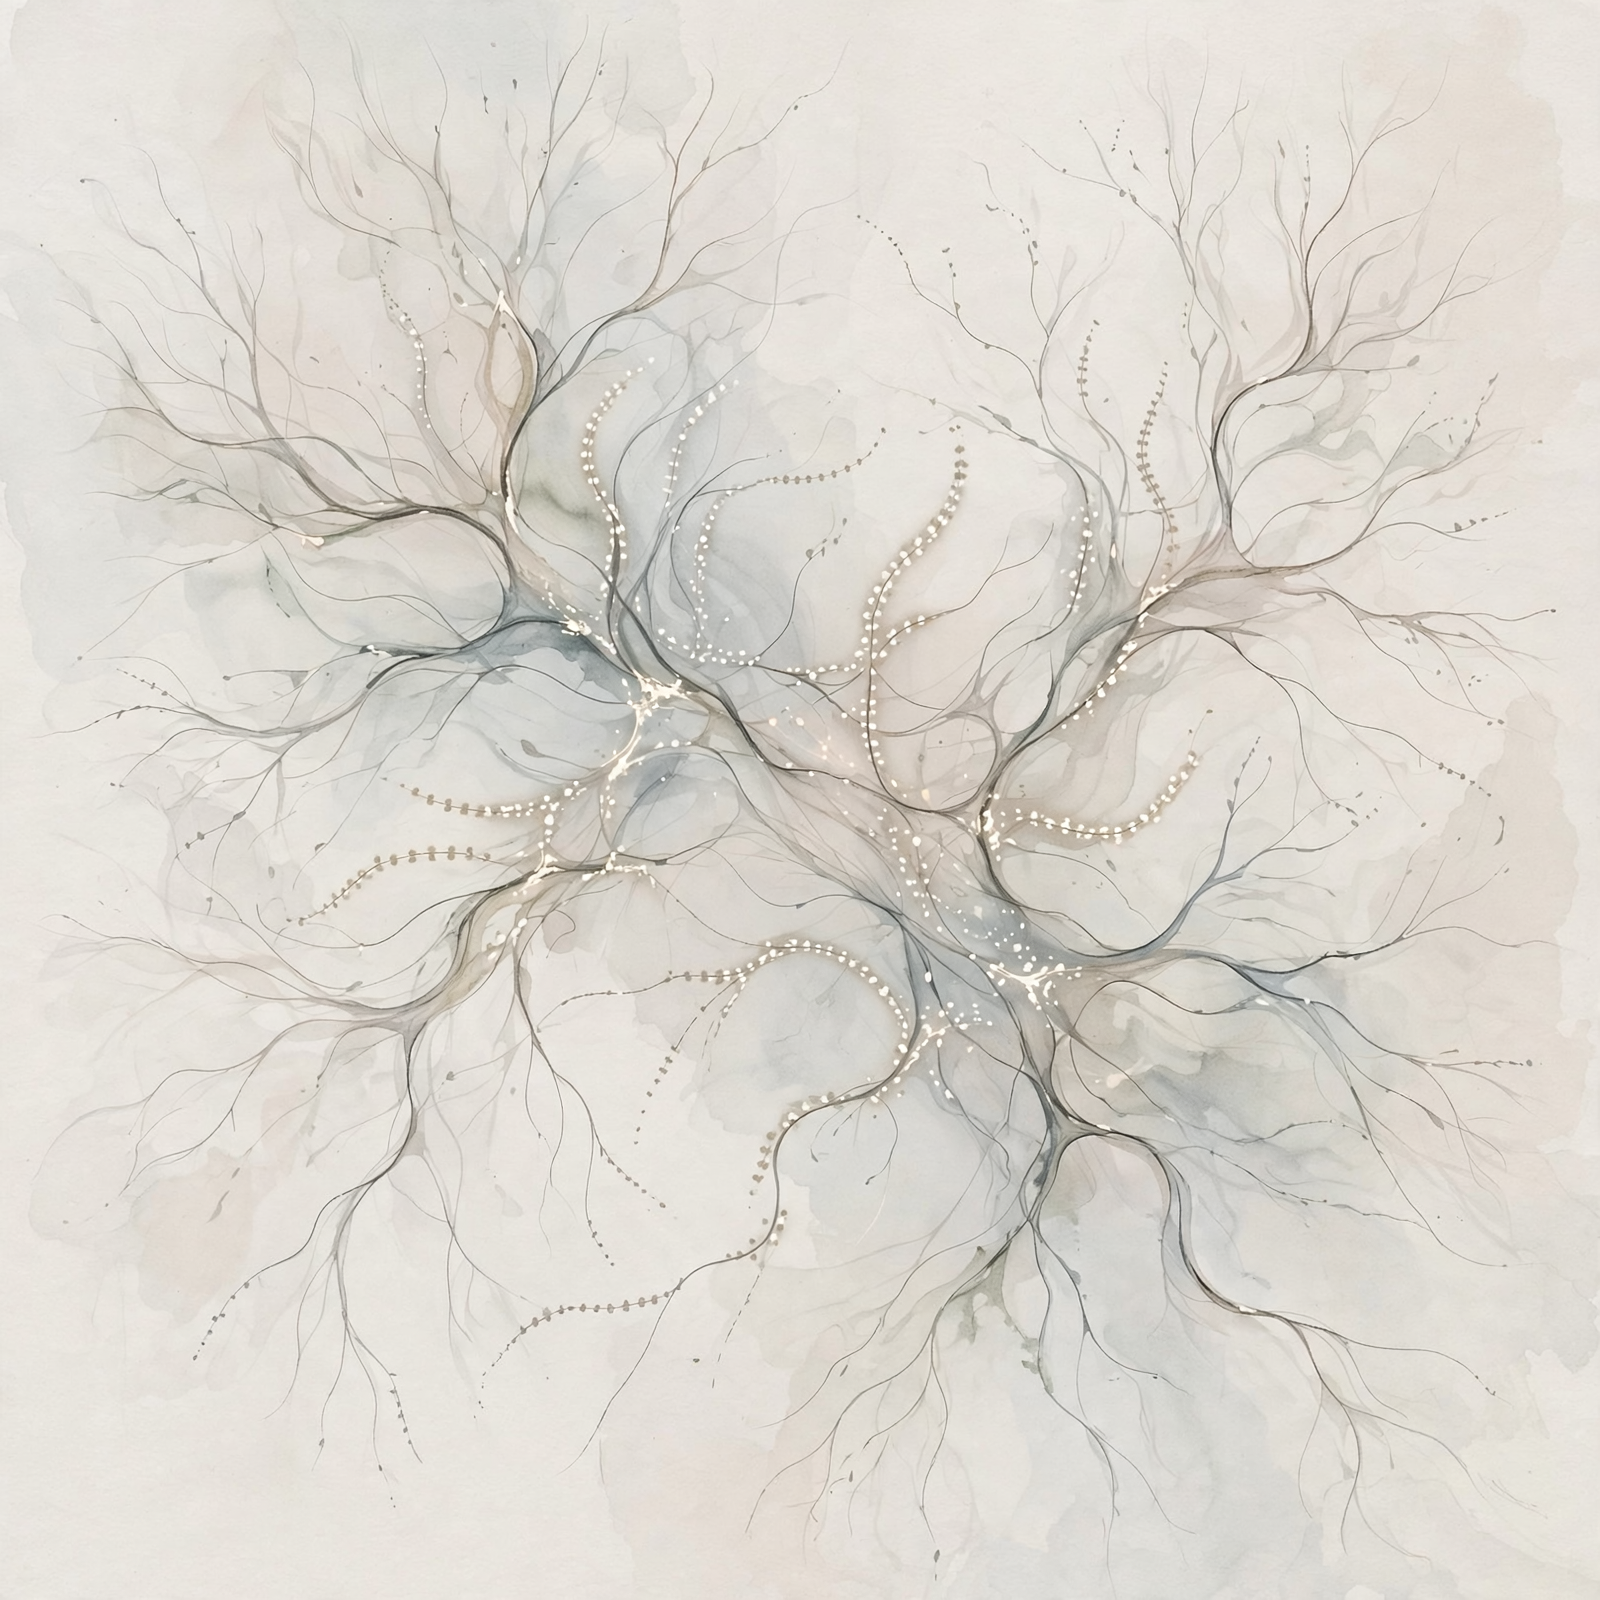
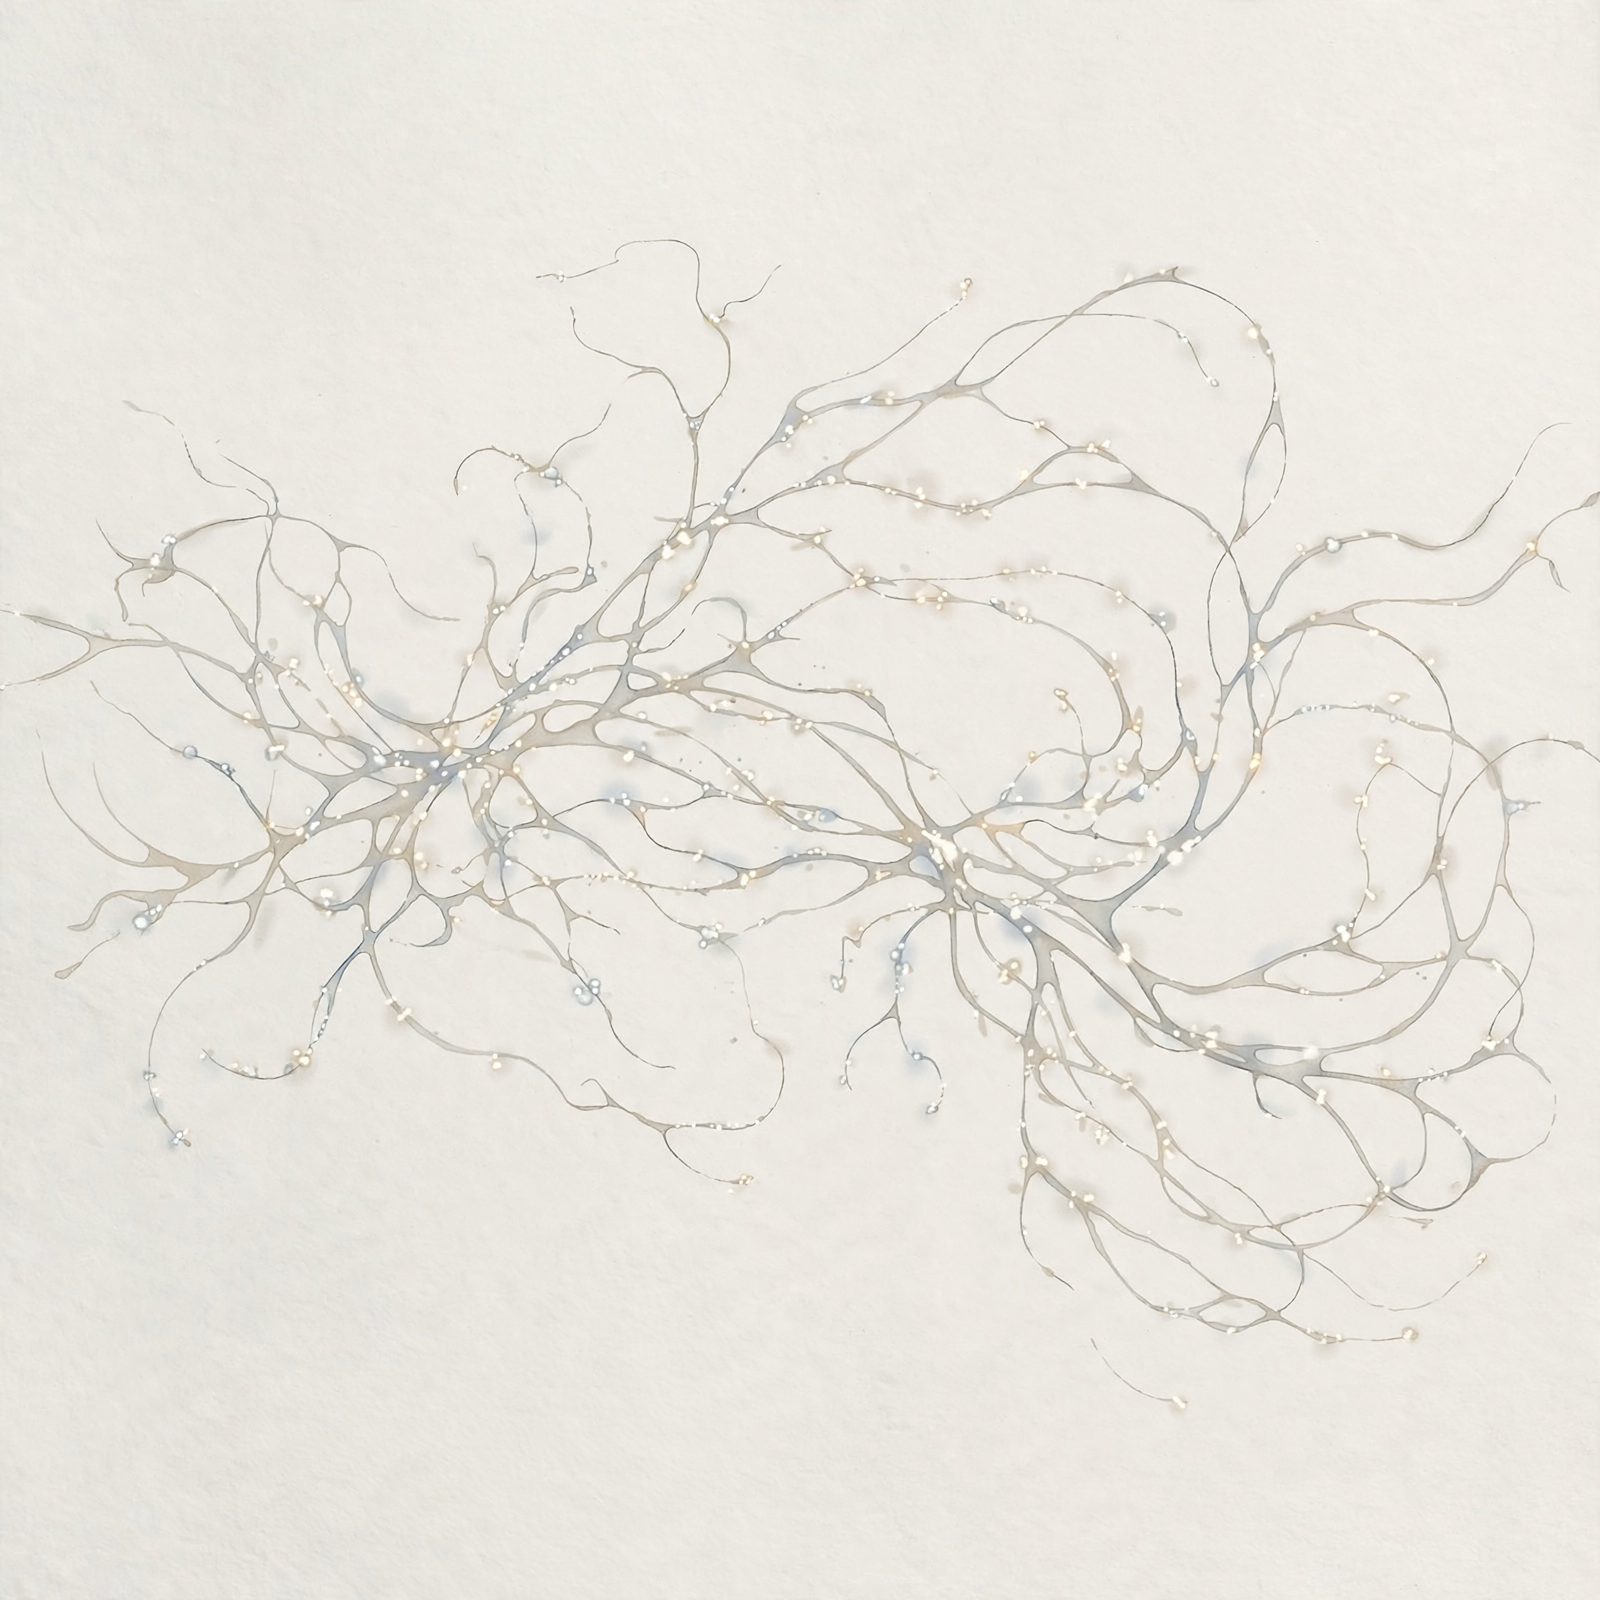
pace the inner life and stop the ghosts. thought streams slowed to breathe: thought-chain links every 8s (was 4), monologue every 20s (was 8), daydreams every 35s (was 15), ambient thoughts every 12s (was 5), reactions every 8s (was 4) - the mind murmurs instead of chattering. anti-hallucination: ne

diff --git a/src/BioDashboard/wwwroot/browser-senses.js b/src/BioDashboard/wwwroot/browser-senses.js
@@ -112,7 +112,7 @@ async function enableBrowserSenses() {
       let energy = 0;
       for (let i = 0; i < out.length; i++) energy += out[i] * out[i];
       const rms = Math.sqrt(energy / out.length);
-      if (rms < 0.0025) return;
+      if (rms < 0.006) return; // anti-hallucination: near-silence invents words
 
       // Convert float32 [-1,1] to int16
       const pcm = new Int16Array(out.length);

diff --git a/src/BioHost/BrainRuntime.cs b/src/BioHost/BrainRuntime.cs
@@ -350,7 +350,7 @@ public sealed class BrainRuntime : IDisposable
         }
         _monologue = new MonologueGenerator(_lm)
         {
-            MinInterval = TimeSpan.FromSeconds(cfg.DemoMode ? 8 : 120),
+            MinInterval = TimeSpan.FromSeconds(cfg.DemoMode ? 20 : 180),
         };
         _dreamer = new DreamGenerator(_imager)
         {
@@ -416,7 +416,7 @@ public sealed class BrainRuntime : IDisposable
             Note($"ATTACHMENT formed: {Attachment.Label} (warmth {Attachment.Warmth:F1}, responsiveness {Attachment.Responsiveness:F1}, {Attachment.Separations} separations)");
             if (line.Length > 0) { lock (_snapGate) _chat.Add($"Brain: {line}"); SpeakWithVoice(line, 0, 0); }
         };
-        if (cfg.DemoMode) ThoughtLoop.MinIntervalMs = 4000f; // demo pacing
+        if (cfg.DemoMode) ThoughtLoop.MinIntervalMs = 8000f; // demo pacing: thoughts breathe between links
 
         _thread = new Thread(RunLoop) { IsBackground = true, Name = "brain" };
     }
@@ -876,7 +876,7 @@ public sealed class BrainRuntime : IDisposable
         // ---- ambient inner monologue + autonomous daydreaming ----
         if (_net.TimeMs >= _nextAmbientMs)
         {
-            _nextAmbientMs = (long)_net.TimeMs + (_cfg.DemoMode ? 5_000 : 12_000);
+            _nextAmbientMs = (long)_net.TimeMs + (_cfg.DemoMode ? 12_000 : 30_000);
             string? line = AmbientThought();
             if (line is not null) Note($"AMBIENT {line}");
         }
@@ -1135,7 +1135,23 @@ public sealed class BrainRuntime : IDisposable
                 : rms < 0.015 ? "very quiet/whispered"
                 : "normal conversational";
 
+            // ANTI-HALLUCINATION: transcription models invent filler words
+            // ("hey", "yeah", "hello") from near-silent room noise. Do not
+            // even transcribe clips without real speech energy...
+            if (rms < 0.015)
+            {
+                Note($"AUDIO near-silence filtered (rms {rms:F3}) - not worth listening to ghosts");
+                return;
+            }
             var tr = await _transcriber.TranscribeAsync(clip);
+            // ...and reject a lone filler word unless the voice was clearly real
+            string trimmed = tr.Transcript?.Trim().TrimEnd('.', '!', '?', ',', ' ') ?? "";
+            bool loneFiller = GhostWords.Contains(trimmed.ToLowerInvariant());
+            if (loneFiller && rms < 0.03)
+            {
+                Note($"GHOST-FILTERED \"{trimmed}\" from quiet noise (rms {rms:F3}) - nobody said that");
+                return;
+            }
             if (!string.IsNullOrWhiteSpace(tr.Transcript))
             {
                 Note($"HEARD \"{Trunc(tr.Transcript, 60)}\" ({emotionalTone}){(tr.FromLiveApi ? " (voice api)" : "")}");
@@ -1478,6 +1494,11 @@ public sealed class BrainRuntime : IDisposable
     /// Returning visitors get a warmer greeting (higher OXT) and faster processing
     /// (the brain recognizes them). Strangers get a stronger surprise response.
     /// </summary>
+    /// Filler words transcription models invent from silence - rejected
+    /// unless the clip carries clearly real speech energy.
+    private static readonly HashSet<string> GhostWords =
+        new(["hey", "yeah", "hello", "hi", "huh", "uh", "um", "ok", "you", "thank you", "bye"], StringComparer.OrdinalIgnoreCase);
+
     private readonly Dictionary<string, int> _knownVisitors = [];
     private string _lastVisitorId = "";
 
@@ -1680,7 +1701,7 @@ public sealed class BrainRuntime : IDisposable
     private async Task DaydreamAsync()
     {
         if (_net.EpisodeStore.Episodes.Count == 0) return;
-        if (_net.TimeMs - _lastDaydreamMs < 15_000) return; // at most every 15s
+        if (_net.TimeMs - _lastDaydreamMs < 35_000) return; // daydreams are occasional, not constant
         _lastDaydreamMs = _net.TimeMs;
         try
         {
@@ -1732,7 +1753,7 @@ public sealed class BrainRuntime : IDisposable
     /// </summary>
     private async Task ReactToStimulusAsync(string stimulus, string detail)
     {
-        if (_net.TimeMs - _lastReactionMs < 4_000) return; // at most every 4s
+        if (_net.TimeMs - _lastReactionMs < 8_000) return; // reactions are occasional
         _lastReactionMs = _net.TimeMs;
         try
         {
